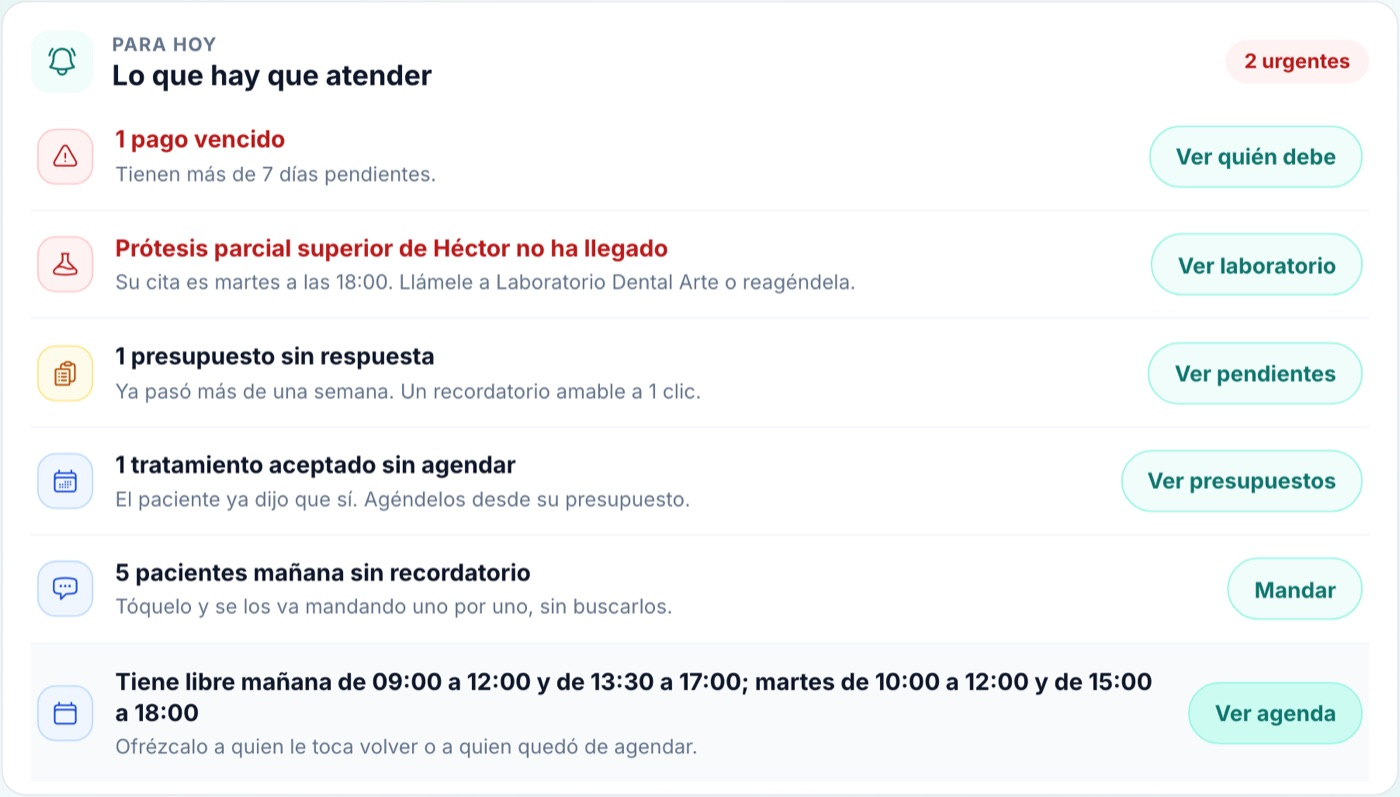
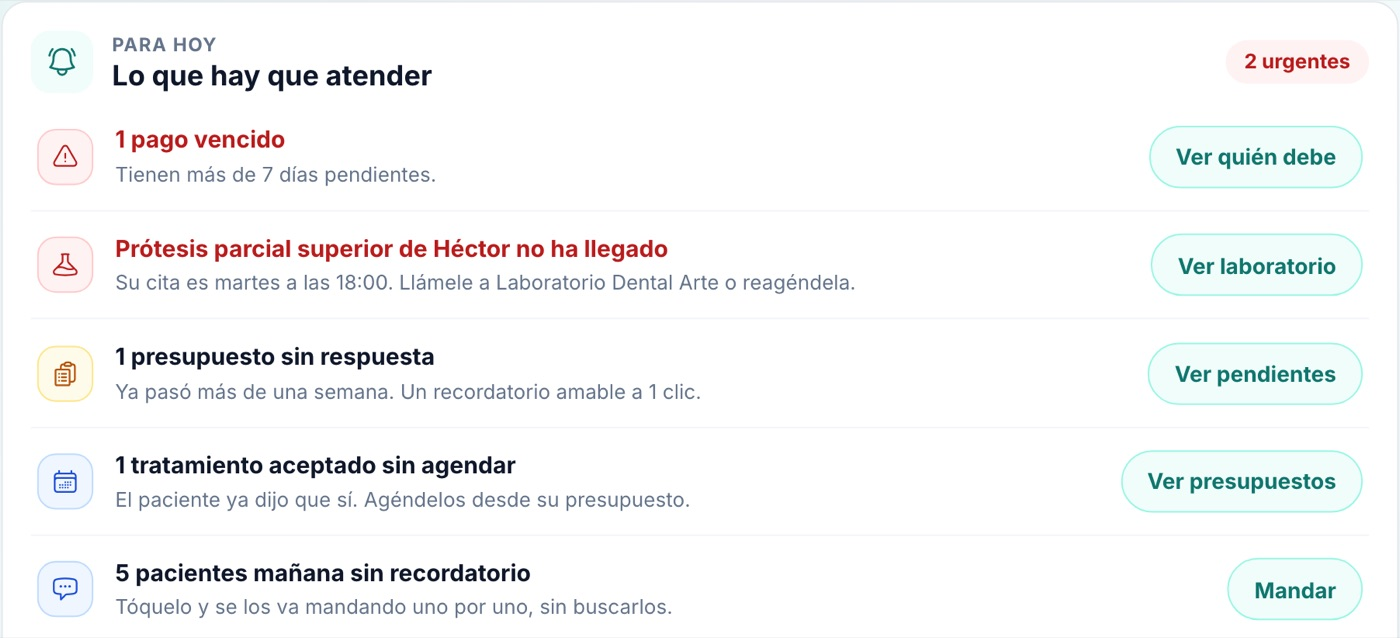
Brief: «con IVA incluido» en la nota de precios y la captura de «Lo que hay que atender» recortada para que siga en 2 hojas

diff --git a/resources/views/pdf/brief.blade.php b/resources/views/pdf/brief.blade.php
@@ -185,7 +185,7 @@
             </td>
         @endforeach
     </tr></table>
-    <p class="pie-foto">Precios en pesos mexicanos. Pagando anual son 10 meses. 15 días de prueba con todo, sin tarjeta, y garantía de 30 días en su primer pago.</p>
+    <p class="pie-foto">Precios en pesos mexicanos, con IVA incluido. Pagando anual son 10 meses. 15 días de prueba con todo, sin tarjeta, y garantía de 30 días en su primer pago.</p>
 
     <h2>Lo que siempre preguntan</h2>
     <table class="faq apila">
